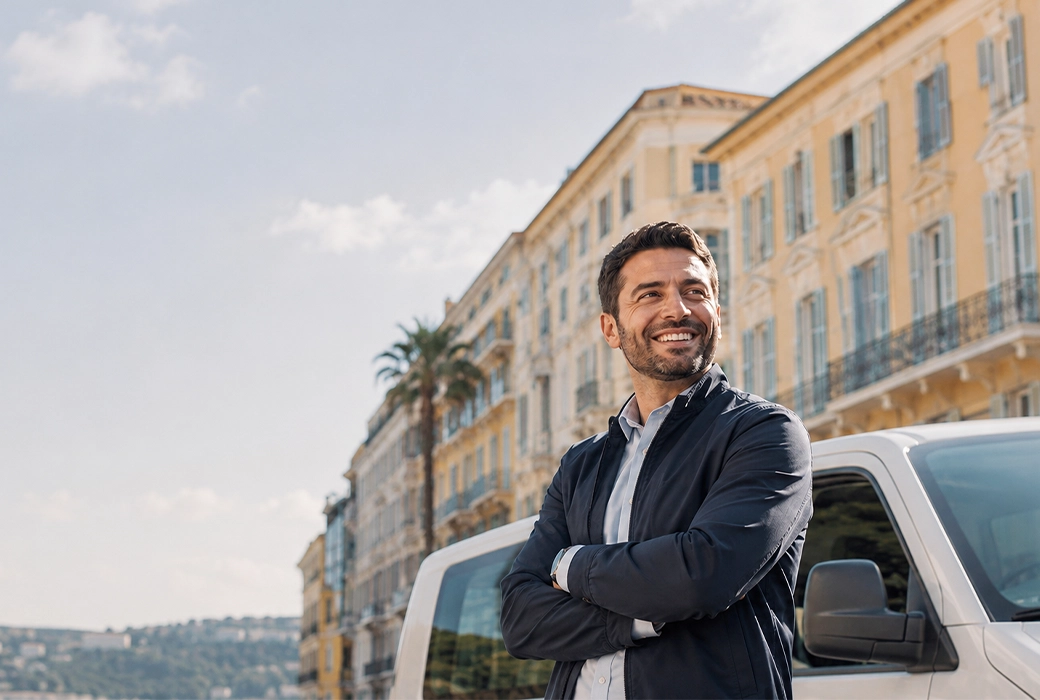
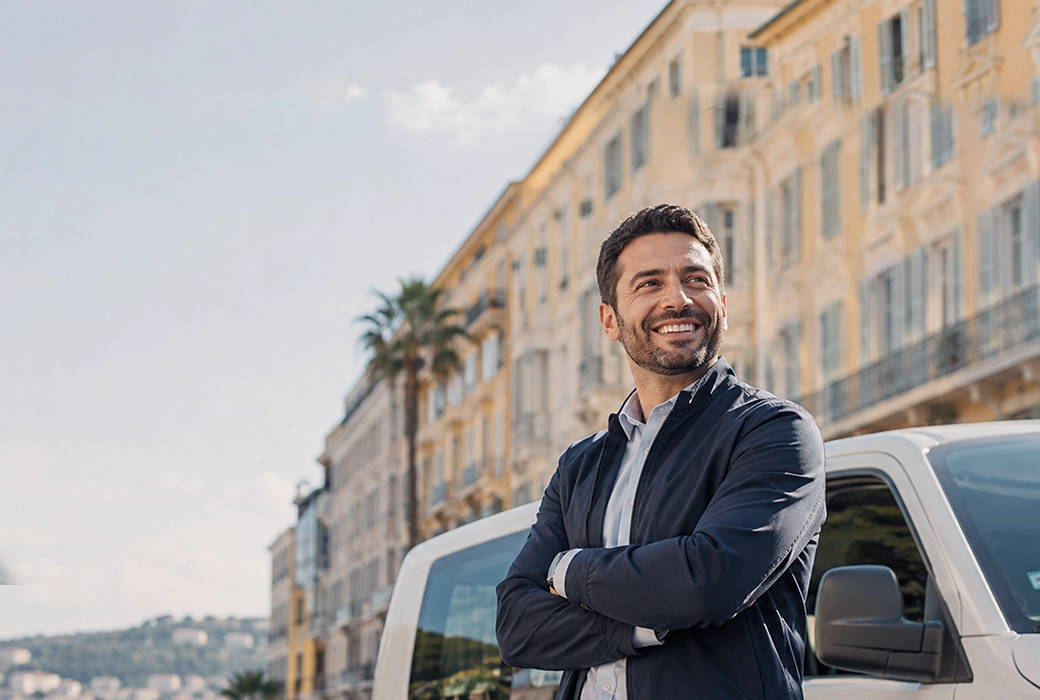
feat: hero images, mobile fixes, article typography, who-we-are image
- Taxi and ambulance pages: wire desktop/mobile hero WebPs into PageHero
- nos-assurances: update hero mobile WebP
- Testimonials: use who-we-are.webp as default Qui-sommes-nous image
- ArticleHero: responsive title 28px mobile to 45px desktop
- ArticleSection: section headings 17px on mobile, 20px at sm+
- VehicleIdentityForm and BusinessIdentityForm: text-left on FAQ toggle button
- Add ambulance, taxi, home hero WebPs; remove old PNGs

diff --git a/pages/assurance-transport/ambulance/index.js b/pages/assurance-transport/ambulance/index.js
@@ -87,7 +87,8 @@ export default function AssuranceAmbulancePage() {
         </div>
         <PageHero
           title={<>Votre activité de transport sanitaire mérite une couverture{" "}<em className="italic">sur-mesure.</em></>}
-          image="/ambulance.jpg"
+          image="/ambulance-hero-desktop.webp"
+          mobileImage="/ambulance-mobile.webp"
           imageAlt="Assurance ambulance New World Courtage"
           titlePosition="bottom"
           titleClassName="!text-[7vw] sm:!text-[36px] lg:!text-[55px]"

diff --git a/components/BusinessIdentityForm.js b/components/BusinessIdentityForm.js
@@ -256,7 +256,7 @@ export default function BusinessIdentityForm({ redirectTo = "/assurance-transpor
         <button
           type="button"
           onClick={toggleFaq}
-          className="flex w-full items-center justify-between gap-4 cursor-pointer"
+          className="flex w-full items-center justify-between gap-4 cursor-pointer text-left"
         >
           <span className="text-sm font-semibold text-white">Comment calculons-nous vos estimations ?</span>
           <span className="shrink-0 text-white/60">

diff --git a/components/VehicleIdentityForm.js b/components/VehicleIdentityForm.js
@@ -260,7 +260,7 @@ export default function VehicleIdentityForm({ redirectTo = "/assurance-transport
         <button
           type="button"
           onClick={toggleFaq}
-          className="flex w-full items-center justify-between gap-4 cursor-pointer"
+          className="flex w-full items-center justify-between gap-4 cursor-pointer text-left"
         >
           <span className="text-sm font-semibold text-white">Comment calculons-nous vos estimations ?</span>
           <span className="shrink-0 text-white/60">

diff --git a/pages/assurance-transport/taxi/index.js b/pages/assurance-transport/taxi/index.js
@@ -121,7 +121,8 @@ export default function AssuranceTaxiPage() {
         </div>
         <PageHero
           title={<>Le bon contrat d&apos;assurance taxi commence par un{" "}<em className="italic">simple devis.</em></>}
-          image="/taxi_page.png"
+          image="/taxi-hero-desktop.webp"
+          mobileImage="/taxi-hero-mobile.webp"
           imageAlt="Assurance taxi New World Courtage"
           titlePosition="bottom"
           titleClassName="!text-[7vw] sm:!text-[36px] lg:!text-[55px]"

diff --git a/components/Testimonials.js b/components/Testimonials.js
@@ -14,7 +14,7 @@ export default function Testimonials({
   headingItalic = "vous attendent.",
   description = "New World Courtage est votre courtier de confiance pour comparer et optimiser vos assurances. Non affiliés à aucun assureur — notre seul objectif est de vous aider à faire le meilleur choix.",
   points = DEFAULT_POINTS,
-  image = "/taxi-insurance-driver-pic.png",
+  image = "/who we are.webp",
   imageAlt = "Clients satisfaits",
   bgColor = "#F2693D",
 }) {

diff --git a/components/ArticleSection.js b/components/ArticleSection.js
@@ -4,7 +4,7 @@
 export default function ArticleSection({ title, children }) {
   return (
     <section className="flex flex-col gap-4">
-      <h2 className="text-xl font-bold text-[#131212]">{title}</h2>
+      <h2 className="text-[17px] sm:text-xl font-bold text-[#131212]">{title}</h2>
       <div className="flex flex-col gap-3 text-[15px] text-gray-600 leading-relaxed">{children}</div>
     </section>
   );

diff --git a/components/ArticleHero.js b/components/ArticleHero.js
@@ -58,7 +58,7 @@ export default function ArticleHero({
         )}
 
         {/* Title */}
-        <h1 className={`text-[45px] leading-[1.15] text-[var(--color-text)] ${libreCaslon.className}`}>
+        <h1 className={`text-[28px] sm:text-[36px] lg:text-[45px] leading-[1.15] text-[var(--color-text)] ${libreCaslon.className}`}>
           {title}
         </h1>
 

diff --git a/pages/nos-assurances/index.js b/pages/nos-assurances/index.js
@@ -45,7 +45,7 @@ const TRANSPORT_CARDS = [
 
 const PRO_AUTO_CARDS = [
   {
-    image: "/card_head_carrossier.webp",
+    image: "/garagist.webp",
     imageAlt: "Assurance garagiste",
     title: "Assurance garagiste",
     description: "Une couverture adaptée aux garagistes : véhicules confiés, outillage et responsabilité professionnelle.",
